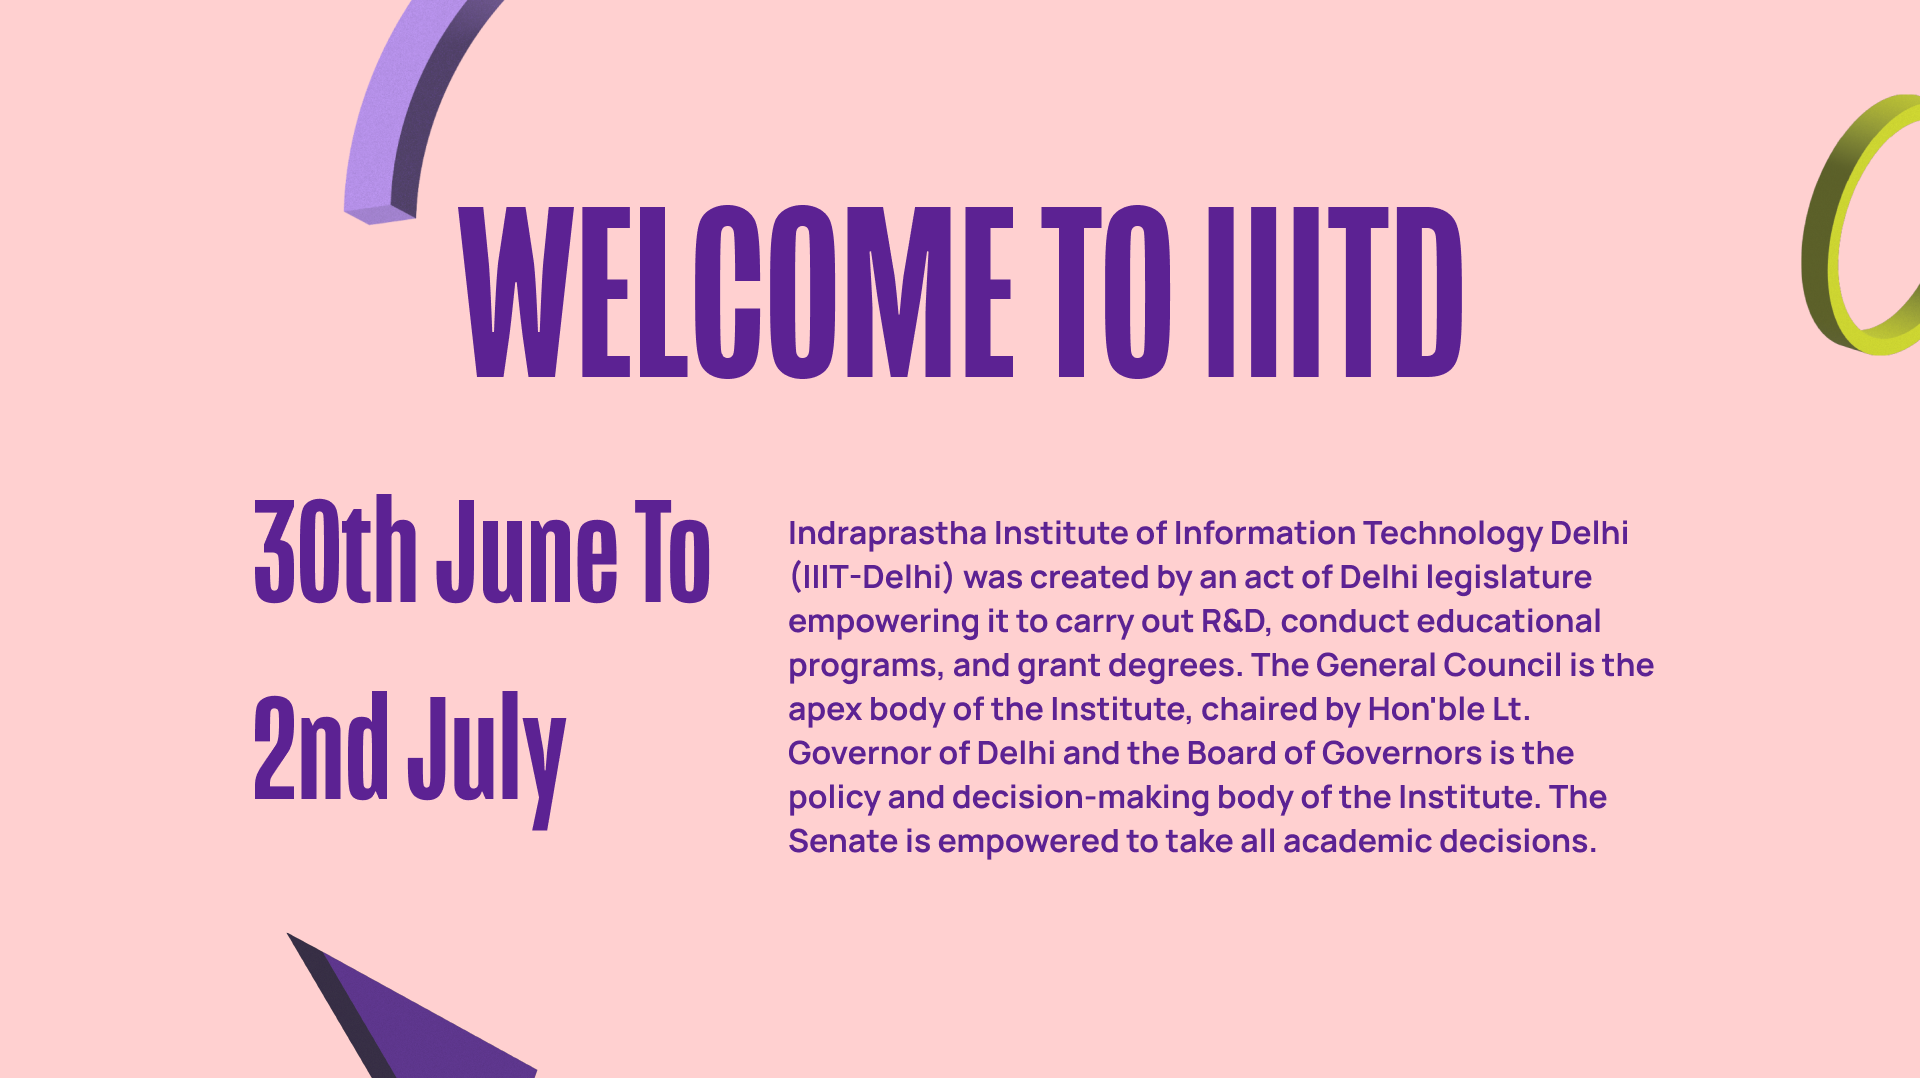
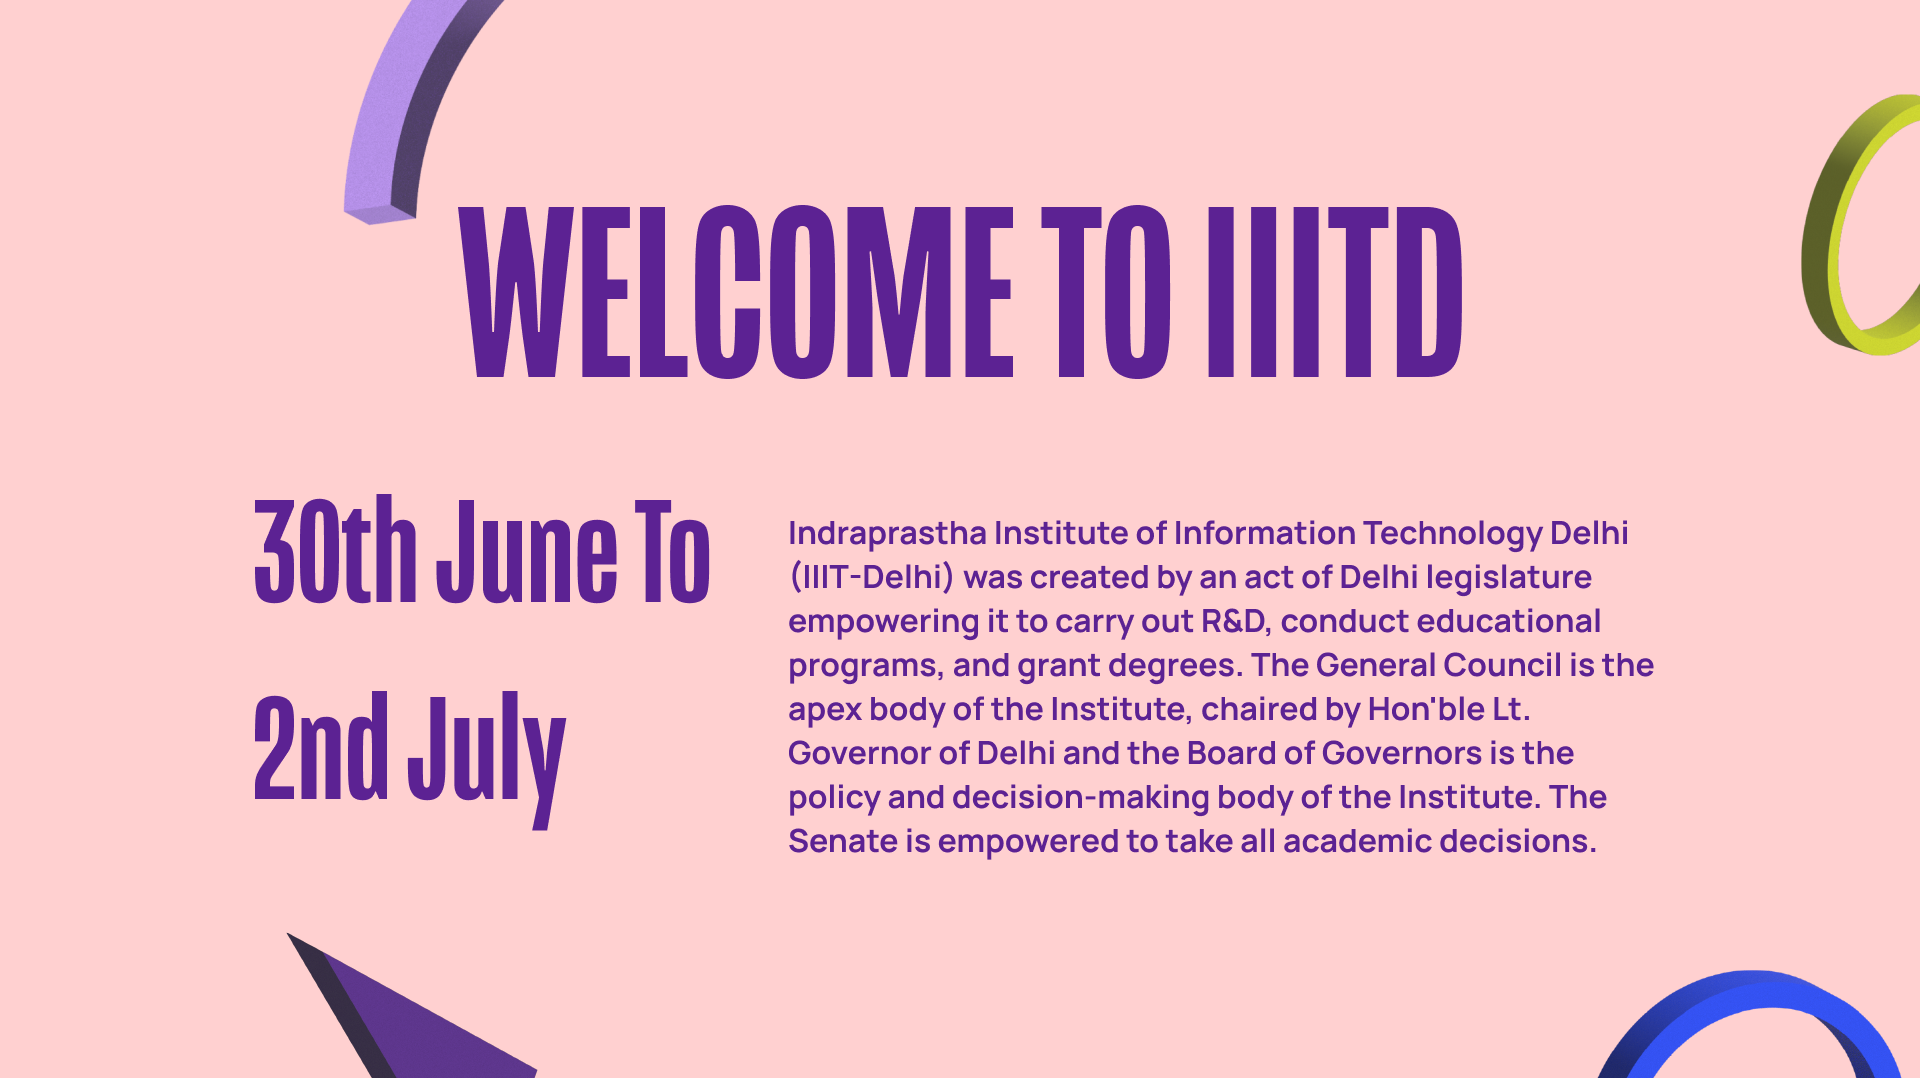
updates

Changed region(s): [[0.8125, 0.8878, 1.0, 1.0]]

diff --git a/src/App.js b/src/App.js
@@ -6,11 +6,13 @@ import Landing from './components/Landing';
 import Navb from './components/Navb';
 import Welcome from './components/Welcome';
 import Menu from "./components/Menu";
+import Speakers from "./components/Speakers";
 function App() {
   return (
     <div className="App">
       <Navb />
       <Welcome />
+        <Speakers />
     </div>
   );
 }

diff --git a/src/components/Speakers.jsx b/src/components/Speakers.jsx
@@ -1,0 +1,13 @@
+import React from 'react'
+import './Speakers.css'
+import speaker from '../components/Assets/Kenote Speakers.png'
+
+const Speaker = () => {
+  return (
+    <div className='speak'>
+        <img src = {speaker} className={"welc"}  alt="welcome" />
+    </div>
+  )
+}
+
+export default Speaker

diff --git a/src/components/Welcome.css b/src/components/Welcome.css
@@ -1,7 +1,7 @@
 
 body{
     height: 100vh;
-    width: 100vw;
+    width: 100vw; 
     background: url(../parallaxElems/bg.png);
     display: flex;
 

diff --git a/src/components/Speakers.css b/src/components/Speakers.css
@@ -1,0 +1,7 @@
+body{
+    height: 100vh;
+    width: 100vw;
+    /*background: url(../parallaxElems/bg.png);*/
+    display: cover;
+
+}
